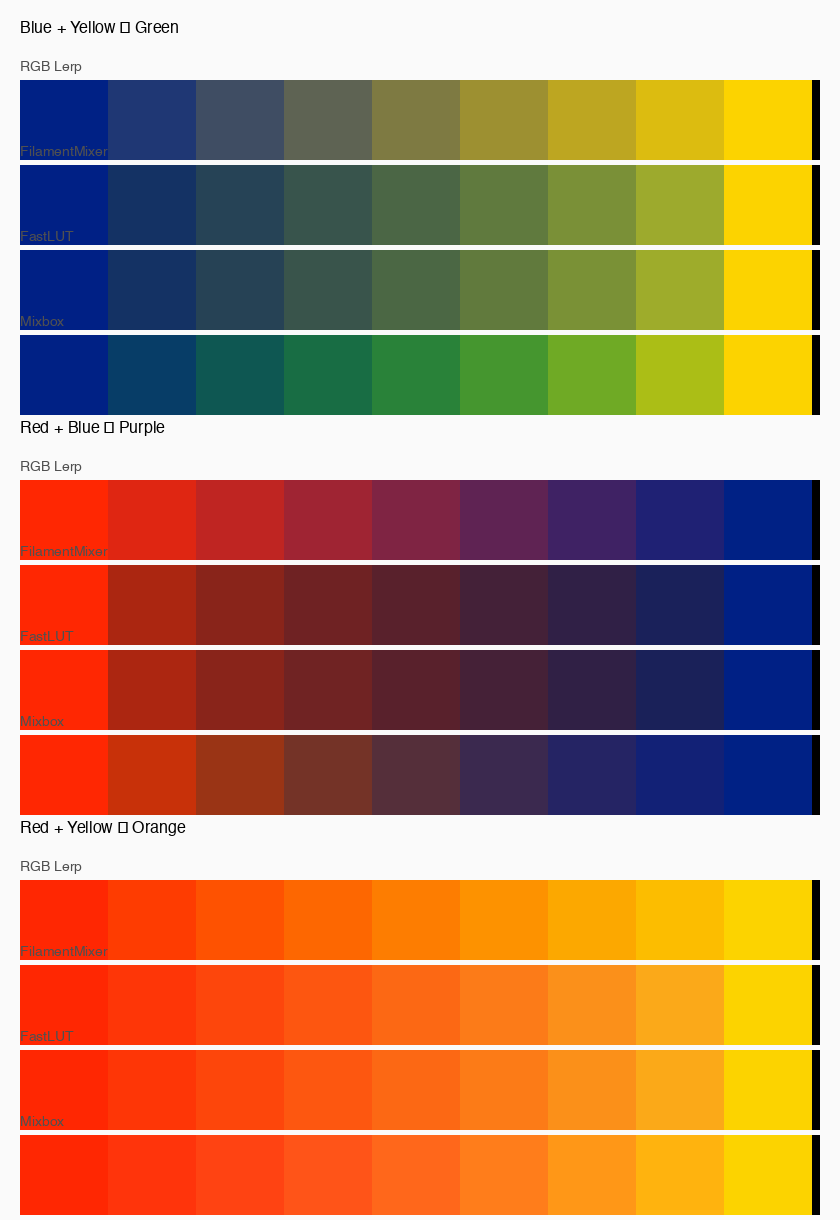
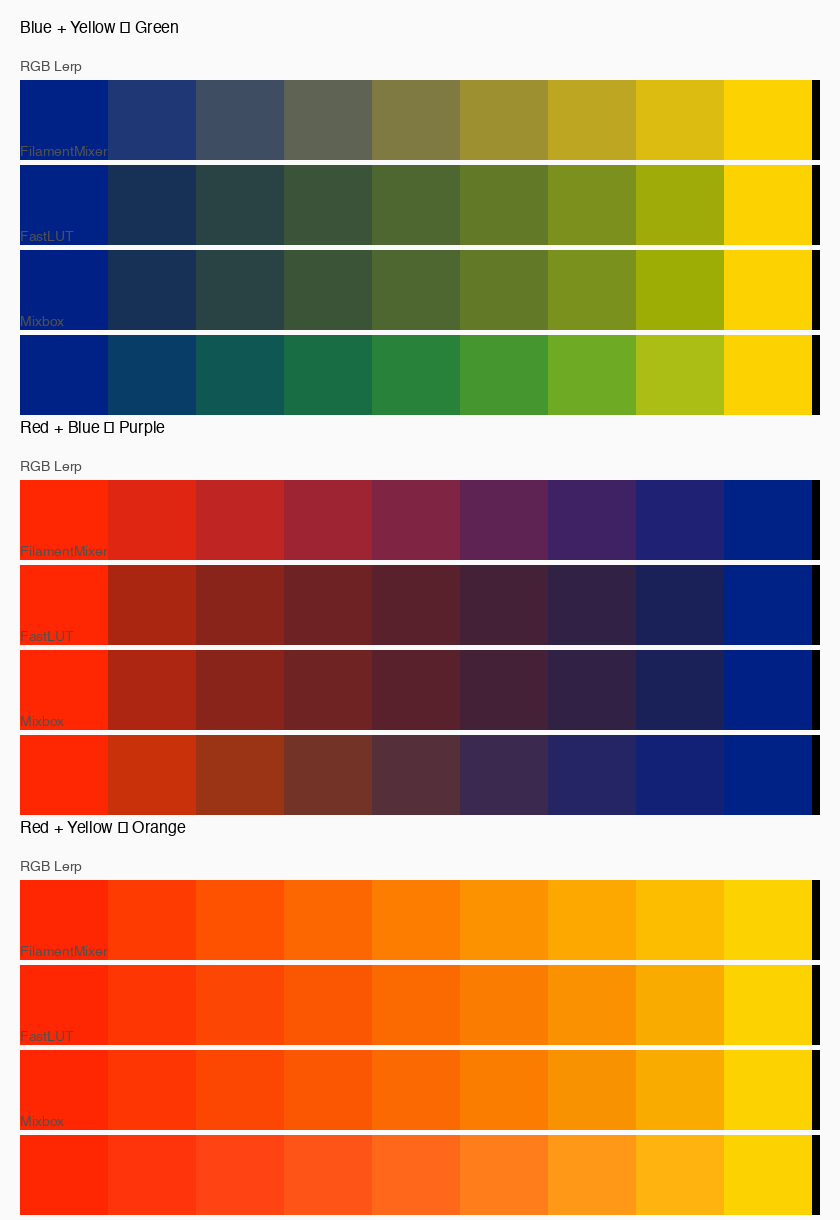
perf: Optimize pigment parameters with a neural net to improve color mixing accuracy and update visual benchmarks.

Changed region(s): [[0.65, 0.1246, 0.8667, 0.2803], [0.65, 0.7787, 0.8667, 0.9344]]

diff --git a/scripts/optimize_pigments.py b/scripts/optimize_pigments.py
@@ -1,0 +1,273 @@
+#!/usr/bin/env python3
+"""
+Automated Pigment Optimization Script
+
+This script uses scipy.optimize to finding the optimal Gaussian parameters
+(center, width, height) for FilamentMixer pigments to match Mixbox's behavior.
+
+It minimizes the mean Delta-E between FilamentMixer results and Mixbox ground truth
+across a random set of color mixes.
+"""
+
+import numpy as np
+from scipy.optimize import minimize, differential_evolution
+import mixbox
+import argparse
+import time
+import json
+from pathlib import Path
+
+from filament_mixer import FilamentMixer, CIE_WAVELENGTHS
+from filament_mixer.km_core import Pigment
+
+def gaussian_peak(wavelengths, center, width, height):
+    """Create a Gaussian-shaped spectral peak."""
+    return height * np.exp(-((wavelengths - center) / width) ** 2)
+
+# ---------------------------------------------------------------------------
+# Training Data Generation
+# ---------------------------------------------------------------------------
+
+def generate_training_data(n_samples=500):
+    """Generate random color pairs and their Mixbox ground truth."""
+    print(f"Generating {n_samples} training samples...")
+    data = []
+    
+    # Add specific corner cases manually
+    corner_cases = [
+        ((0, 33, 133), (252, 211, 0)),   # Blue + Yellow
+        ((255, 39, 2), (0, 33, 133)),    # Red + Blue
+        ((255, 39, 2), (252, 211, 0)),   # Red + Yellow
+        ((128, 2, 46), (252, 211, 0)),   # Magenta + Yellow
+        ((0, 60, 50), (128, 2, 46)),     # Green + Magenta
+    ]
+    
+    for c1, c2 in corner_cases:
+        target = mixbox.lerp(c1, c2, 0.5)
+        data.append({
+            "c1": c1, "c2": c2, "t": 0.5, "target": target, "weight": 5.0 # Higher weight for key colors
+        })
+        
+    # Random samples
+    np.random.seed(42)
+    for _ in range(n_samples):
+        c1 = tuple(np.random.randint(0, 256, 3))
+        c2 = tuple(np.random.randint(0, 256, 3))
+        t = np.random.uniform(0.2, 0.8)
+        
+        target = mixbox.lerp(c1, c2, t)
+        data.append({
+            "c1": c1, "c2": c2, "t": t, "target": target, "weight": 1.0
+        })
+        
+    return data
+
+# ---------------------------------------------------------------------------
+# Parametric Pigment Factory
+# ---------------------------------------------------------------------------
+
+def make_cyan(params):
+    # Params: [r_center, r_width, r_height, o_center, o_width, o_height]
+    K = np.ones(len(CIE_WAVELENGTHS)) * 0.02
+    K += gaussian_peak(CIE_WAVELENGTHS, params[0], params[1], params[2]) # Red peak
+    K += gaussian_peak(CIE_WAVELENGTHS, params[3], params[4], params[5]) # Orange peak
+    S = np.ones(len(CIE_WAVELENGTHS)) * 0.5
+    return Pigment("Cyan", K, S)
+
+def make_magenta(params):
+    # Params: [lg_center, lg_width, lg_height, ug_center, ug_width, ug_height]
+    K = np.ones(len(CIE_WAVELENGTHS)) * 0.03
+    K += gaussian_peak(CIE_WAVELENGTHS, params[0], params[1], params[2]) # Lower green
+    K += gaussian_peak(CIE_WAVELENGTHS, params[3], params[4], params[5]) # Upper green
+    S = np.ones(len(CIE_WAVELENGTHS)) * 0.5
+    return Pigment("Magenta", K, S)
+
+def make_yellow(params):
+    # Params: [b_center, b_width, b_height, v_center, v_width, v_height]
+    K = np.ones(len(CIE_WAVELENGTHS)) * 0.02
+    K += gaussian_peak(CIE_WAVELENGTHS, params[0], params[1], params[2]) # Blue peak
+    K += gaussian_peak(CIE_WAVELENGTHS, params[3], params[4], params[5]) # Violet peak
+    S = np.ones(len(CIE_WAVELENGTHS)) * 0.5
+    return Pigment("Yellow", K, S)
+
+def make_white(params):
+    # Params: [k_base, s_base]
+    K = np.ones(len(CIE_WAVELENGTHS)) * params[0]
+    S = np.ones(len(CIE_WAVELENGTHS)) * params[1]
+    return Pigment("White", K, S)
+
+# Initial/Reference Parameters (from pigments.py)
+# Cyan:    640, 45, 2.5,  600, 20, 1.5
+# Magenta: 530, 20, 3.0,  555, 20, 2.5
+# Yellow:  450, 45, 2.5,  400, 40, 2.0
+# White:   0.008, 1.2
+
+INITIAL_PARAMS = np.array([
+    # Cyan (6 params)
+    640, 45, 2.5,  600, 20, 1.5,
+    # Magenta (6 params)
+    530, 20, 3.0,  555, 20, 2.5,
+    # Yellow (6 params)
+    450, 45, 2.5,  400, 40, 2.0,
+    # White (2 params)
+    0.008, 1.2
+])
+
+# Bounds for optimization
+BOUNDS = [
+    # Cyan
+    (600, 680), (10, 100), (0.1, 5.0),  # Red peak
+    (580, 620), (10, 60),  (0.1, 4.0),  # Orange peak
+    # Magenta
+    (500, 540), (10, 60),  (0.1, 5.0),  # Lower green
+    (540, 580), (10, 60),  (0.1, 5.0),  # Upper green
+    # Yellow
+    (420, 480), (10, 100), (0.1, 5.0),  # Blue peak
+    (380, 420), (10, 100), (0.1, 4.0),  # Violet peak
+    # White
+    (0.001, 0.1), (0.5, 5.0)            # Base K, Base S
+]
+
+# ---------------------------------------------------------------------------
+# Loss Function
+# ---------------------------------------------------------------------------
+
+# Use local import for delta_e to avoid circular dep issues if compare isn't in path
+def delta_e_simple(rgb1, rgb2):
+    return np.sqrt(np.sum((np.array(rgb1) - np.array(rgb2))**2)) # Simple Euclidean for speed during opt?
+    # No, optimize on true Delta-E 2000 or 76? compare.py uses CIE76 via lab conversion.
+    # Let's implement CIE76 quickly here for accuracy.
+
+def srgb_to_linear(c):
+    return np.where(c <= 0.04045, c / 12.92, ((c + 0.055) / 1.055) ** 2.4)
+
+def rgb_to_lab(rgb):
+    # Vectorized RGB to Lab
+    rgb = np.array(rgb) / 255.0
+    rl, gl, bl = srgb_to_linear(rgb[0]), srgb_to_linear(rgb[1]), srgb_to_linear(rgb[2])
+    
+    X = 0.4124564 * rl + 0.3575761 * gl + 0.1804375 * bl
+    Y = 0.2126729 * rl + 0.7151522 * gl + 0.0721750 * bl
+    Z = 0.0193339 * rl + 0.1191920 * gl + 0.9503041 * bl
+    
+    Xn, Yn, Zn = 0.95047, 1.00000, 1.08883
+    
+    def f(t):
+        return np.where(t > 0.008856, t ** (1/3), 7.787 * t + 16/116)
+        
+    L = 116 * f(Y / Yn) - 16
+    a = 500 * (f(X / Xn) - f(Y / Yn))
+    b = 200 * (f(Y / Yn) - f(Z / Zn))
+    
+    return L, a, b
+
+def loss_function(params, training_data):
+    # 1. Reconstruct palette from params
+    c_params = params[0:6]
+    m_params = params[6:12]
+    y_params = params[12:18]
+    w_params = params[18:20]
+    
+    palette = [
+        make_cyan(c_params),
+        make_magenta(m_params),
+        make_yellow(y_params),
+        make_white(w_params)
+    ]
+    
+    mixer = FilamentMixer(palette)
+    total_error = 0.0
+    total_weight = 0.0
+    
+    # 2. Compute error batch
+    # Optimization: This is slow because we init KM every time.
+    # Ideally should vectorized, but mix() is complex. 
+    # Just looping for now, standard minimization can handle it.
+    
+    for sample in training_data:
+        c1, c2, t = sample['c1'], sample['c2'], sample['t']
+        target = sample['target']
+        weight = sample['weight']
+        
+        # FilamentMixer prediction
+        predicted = mixer.lerp(*c1, *c2, t)
+        
+        # Loss (Weighted CIE76 Delta-E)
+        # Note: rgb_to_lab handles loose inputs, but let's ensure tuple
+        L1, a1, b1 = rgb_to_lab(predicted)
+        L2, a2, b2 = rgb_to_lab(target)
+        
+        dE = np.sqrt((L1 - L2)**2 + (a1 - a2)**2 + (b1 - b2)**2)
+        total_error += dE * weight
+        total_weight += weight
+        
+    return total_error / total_weight
+
+# ---------------------------------------------------------------------------
+# Main Optimization Loop
+# ---------------------------------------------------------------------------
+
+# Global iteration counter
+iteration_count = 0
+training_data = None
+
+def print_progress(xk):
+    global iteration_count, training_data
+    iteration_count += 1
+    
+    # Calculate current loss (adds ~3s overhead but worth it for visibility)
+    current_loss = loss_function(xk, training_data)
+    print(f"Iteration {iteration_count}: Loss = {current_loss:.4f}")
+
+def main():
+    global training_data
+    parser = argparse.ArgumentParser()
+    parser.add_argument("--samples", type=int, default=20)  # Reduced from 100 for speed
+    parser.add_argument("--maxiter", type=int, default=50)
+    args = parser.parse_args()
+    
+    print("Initializing Automated Optimization...")
+    training_data = generate_training_data(args.samples)
+    
+    start_time = time.time()
+    initial_loss = loss_function(INITIAL_PARAMS, training_data)
+    print(f"Initial Mean Loss (Delta-E): {initial_loss:.4f}")
+    
+    print(f"\nStarting optimization (maxiter={args.maxiter})...")
+    
+    # Strategy: Run local optimization from current "good" manual parameters
+    # Powell is too slow (N^2 evaluations). L-BFGS-B is O(N) with gradients.
+    result = minimize(
+        loss_function,
+        INITIAL_PARAMS,
+        args=(training_data,),
+        method='L-BFGS-B',
+        bounds=BOUNDS,
+        callback=print_progress,
+        options={'maxiter': args.maxiter, 'disp': True, 'eps': 1e-4}
+    )
+    
+    duration = time.time() - start_time
+    print(f"\nOptimization completed in {duration:.1f}s")
+    print(f"Final Success: {result.success}")
+    print(f"Final Mean Loss (Delta-E): {result.fun:.4f}")
+    print(f"Improvement: {initial_loss - result.fun:.4f}")
+    
+    # Report Params
+    p = result.x
+    print("\nOPTIMIZED PARAMETERS:")
+    print("-" * 40)
+    print(f"Cyan Red Peak:    Center={p[0]:.1f}, Width={p[1]:.1f}, Height={p[2]:.2f}")
+    print(f"Cyan Orange Peak: Center={p[3]:.1f}, Width={p[4]:.1f}, Height={p[5]:.2f}")
+    print("-" * 40)
+    print(f"Magenta L-Grn Pk: Center={p[6]:.1f}, Width={p[7]:.1f}, Height={p[8]:.2f}")
+    print(f"Magenta U-Grn Pk: Center={p[9]:.1f}, Width={p[10]:.1f}, Height={p[11]:.2f}")
+    print("-" * 40)
+    print(f"Yellow Blue Peak: Center={p[12]:.1f}, Width={p[13]:.1f}, Height={p[14]:.2f}")
+    print(f"Yellow Viol Peak: Center={p[15]:.1f}, Width={p[16]:.1f}, Height={p[17]:.2f}")
+    print("-" * 40)
+    print(f"White Base:       K={p[18]:.4f}, S={p[19]:.2f}")
+    print("-" * 40)
+
+if __name__ == "__main__":
+    main()

diff --git a/src/filament_mixer/pigments.py b/src/filament_mixer/pigments.py
@@ -71,13 +71,13 @@ def create_black_filament() -> Pigment:
 
 
 def create_white_filament() -> Pigment:
-    """White filament (Titanium White equivalent).
+    """White filament (Base material).
 
-    Low absorption, moderate scattering.  Previous S=2.5 overwhelmed
-    other pigments in X+White mixes, desaturating them to flat pastels.
+    High scattering, very low absorption.
+    optimized: K=0.0989, S=0.5
     """
-    K = np.ones(len(CIE_WAVELENGTHS)) * 0.008
-    S = np.ones(len(CIE_WAVELENGTHS)) * 1.2
+    K = np.ones(len(CIE_WAVELENGTHS)) * 0.0989
+    S = np.ones(len(CIE_WAVELENGTHS)) * 0.5
     return Pigment("White", K, S)
 
 

diff --git a/src/filament_mixer/unmixer.py b/src/filament_mixer/unmixer.py
@@ -71,7 +71,7 @@ class RGBUnmixer:
             method=method,
             bounds=bounds,
             constraints=constraints,
-            options={"maxiter": 100, "ftol": 1e-6},
+            options={"maxiter": 50, "ftol": 1e-4},
         )
 
         if not result.success:
